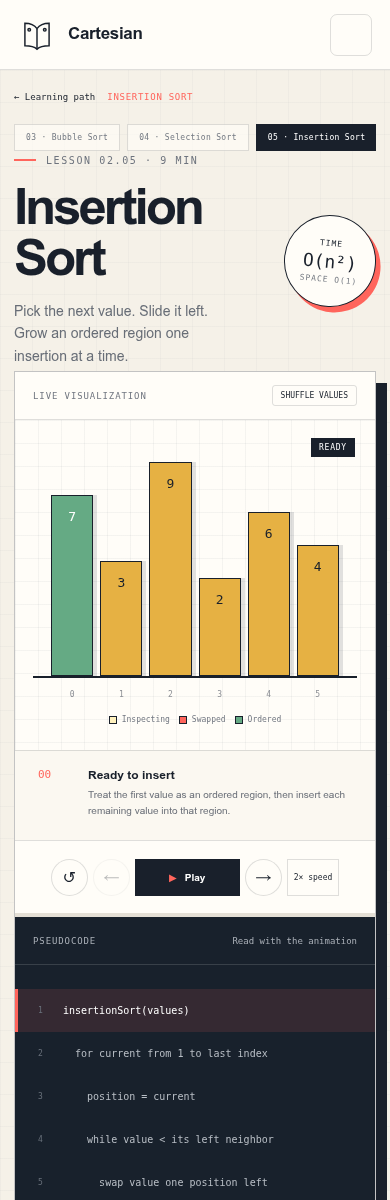
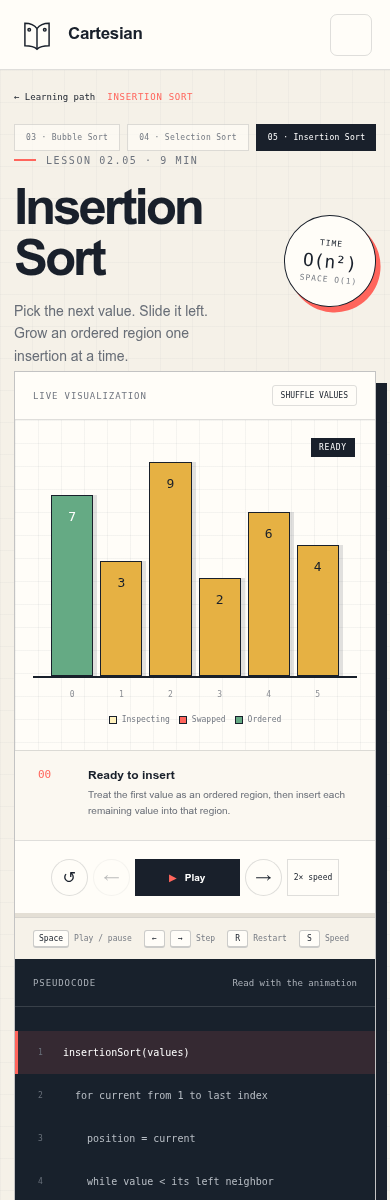
feat: add keyboard playback controls

Changed region(s): [[0.0308, 0.74, 0.9846, 0.9558], [0.3385, 0.9558, 0.3692, 0.9867]]

diff --git a/src/features/sorting/SortLesson.tsx b/src/features/sorting/SortLesson.tsx
@@ -1,4 +1,5 @@
 import { useEffect, useMemo, useState } from 'react'
+import { getPlaybackCommand } from './playbackShortcuts'
 import type { SortStep } from './sortStep'
 
 const SPEEDS = [1200, 750, 380]
@@ -75,6 +76,48 @@ export function SortLesson({ definition, lessons, onBack, onOpenLesson }: SortLe
     setValues(randomValues(definition.initialValues.length))
   }
 
+  useEffect(() => {
+    const onKeyDown = (event: KeyboardEvent) => {
+      const target = event.target
+      const hasInteractiveFocus = target instanceof Element
+        && target.closest('button, a, input, textarea, select, [contenteditable="true"]') !== null
+      if (hasInteractiveFocus) return
+
+      const command = getPlaybackCommand(event)
+      if (!command) return
+      event.preventDefault()
+
+      switch (command) {
+        case 'toggle-playback':
+          if (isComplete) {
+            setPlaying(false)
+            setStepIndex(0)
+          } else {
+            setPlaying((current) => !current)
+          }
+          break
+        case 'previous-step':
+          setPlaying(false)
+          setStepIndex((current) => Math.max(0, current - 1))
+          break
+        case 'next-step':
+          setPlaying(false)
+          setStepIndex((current) => Math.min(steps.length - 1, current + 1))
+          break
+        case 'restart':
+          setPlaying(false)
+          setStepIndex(0)
+          break
+        case 'change-speed':
+          setSpeedIndex((current) => (current + 1) % SPEEDS.length)
+          break
+      }
+    }
+
+    window.addEventListener('keydown', onKeyDown)
+    return () => window.removeEventListener('keydown', onKeyDown)
+  }, [isComplete, steps.length])
+
   return (
     <main className="lesson-page">
       <div className="lesson-crumbs">
@@ -150,6 +193,12 @@ export function SortLesson({ definition, lessons, onBack, onOpenLesson }: SortLe
             <button className="speed-button" type="button" onClick={() => setSpeedIndex((current) => (current + 1) % SPEEDS.length)}>{speedIndex + 1}× speed</button>
           </div>
           <div className="timeline" aria-label={`Step ${stepIndex + 1} of ${steps.length}`}><span style={{ width: `${(stepIndex / (steps.length - 1)) * 100}%` }} /></div>
+          <div className="shortcut-strip" aria-label="Keyboard shortcuts">
+            <span><kbd>Space</kbd> Play / pause</span>
+            <span><kbd>←</kbd><kbd>→</kbd> Step</span>
+            <span><kbd>R</kbd> Restart</span>
+            <span><kbd>S</kbd> Speed</span>
+          </div>
         </div>
 
         <aside className="code-panel">

diff --git a/src/features/sorting/playbackShortcuts.ts b/src/features/sorting/playbackShortcuts.ts
@@ -1,0 +1,33 @@
+export type PlaybackCommand =
+  | 'toggle-playback'
+  | 'previous-step'
+  | 'next-step'
+  | 'restart'
+  | 'change-speed'
+
+type KeyboardInput = {
+  key: string
+  altKey?: boolean
+  ctrlKey?: boolean
+  metaKey?: boolean
+}
+
+export function getPlaybackCommand(input: KeyboardInput): PlaybackCommand | null {
+  if (input.altKey || input.ctrlKey || input.metaKey) return null
+
+  switch (input.key.toLowerCase()) {
+    case ' ':
+    case 'spacebar':
+      return 'toggle-playback'
+    case 'arrowleft':
+      return 'previous-step'
+    case 'arrowright':
+      return 'next-step'
+    case 'r':
+      return 'restart'
+    case 's':
+      return 'change-speed'
+    default:
+      return null
+  }
+}

diff --git a/src/features/sorting/playbackShortcuts.test.ts b/src/features/sorting/playbackShortcuts.test.ts
@@ -1,0 +1,28 @@
+import { describe, expect, it } from 'vitest'
+import { getPlaybackCommand } from './playbackShortcuts'
+
+describe('getPlaybackCommand', () => {
+  it.each([
+    [' ', 'toggle-playback'],
+    ['Spacebar', 'toggle-playback'],
+    ['ArrowLeft', 'previous-step'],
+    ['ArrowRight', 'next-step'],
+    ['r', 'restart'],
+    ['R', 'restart'],
+    ['s', 'change-speed'],
+    ['S', 'change-speed'],
+  ] as const)('maps %s to %s', (key, command) => {
+    expect(getPlaybackCommand({ key })).toBe(command)
+  })
+
+  it('ignores unrelated keys', () => {
+    expect(getPlaybackCommand({ key: 'Enter' })).toBeNull()
+    expect(getPlaybackCommand({ key: 'm' })).toBeNull()
+  })
+
+  it('does not override browser or operating-system shortcuts', () => {
+    expect(getPlaybackCommand({ key: 'r', ctrlKey: true })).toBeNull()
+    expect(getPlaybackCommand({ key: 's', metaKey: true })).toBeNull()
+    expect(getPlaybackCommand({ key: 'ArrowLeft', altKey: true })).toBeNull()
+  })
+})

diff --git a/src/App.css b/src/App.css
@@ -146,6 +146,9 @@ footer > span { text-align: right; color: #9da4ae; font: 9px var(--mono); text-t
 .speed-button { padding: 0 11px; font: 8px var(--mono); }
 .timeline { height: 4px; background: #e4dfd5; }
 .timeline span { display: block; height: 100%; background: var(--coral); transition: width 250ms ease; }
+.shortcut-strip { min-height: 42px; padding: 8px 18px; display: flex; align-items: center; justify-content: center; gap: 18px; border-top: 1px solid var(--line); background: #f6f2e9; color: #777c84; font: 8px var(--mono); }
+.shortcut-strip span { display: inline-flex; align-items: center; gap: 5px; white-space: nowrap; }
+.shortcut-strip kbd { min-width: 21px; padding: 3px 5px; border: 1px solid rgba(25,32,43,.22); border-bottom-width: 2px; border-radius: 3px; background: var(--paper); color: var(--ink); font: 8px var(--mono); text-align: center; }
 
 .code-panel { min-width: 0; background: #18212c; color: white; }
 .code-panel .panel-label { color: #a9afb7; border-color: rgba(255,255,255,.14); }
@@ -216,6 +219,7 @@ footer > span { text-align: right; color: #9da4ae; font: 9px var(--mono); text-t
   .visual-legend { gap: 9px; }
   .player-controls { gap: 5px; }
   .speed-button { padding: 0 6px; }
+  .shortcut-strip { justify-content: flex-start; gap: 12px; overflow-x: auto; }
   .lesson-concept { grid-template-columns: 1fr; gap: 25px; padding: 50px 28px; }
   .lesson-concept > p { grid-column: auto; }
   .concept-number { font-size: 38px; }

diff --git a/README.md b/README.md
@@ -25,6 +25,7 @@ The goal is not to make algorithms merely look animated. The goal is to make the
 - Keyboard-accessible navigation drawer (`M` to toggle, `Escape` to close)
 - Interactive Bubble Sort, Selection Sort, and Insertion Sort lessons
 - Play, pause, replay, previous-step, and next-step controls
+- Keyboard playback controls with visible shortcut guidance
 - Three playback speeds
 - Random input generation
 - Synchronized pseudocode highlighting
@@ -125,6 +126,18 @@ http://localhost:5173/#insertion-sort
 | `npm run build` | Type-check and create a production build |
 | `npm run preview` | Preview the production build locally |
 
+## Lesson keyboard controls
+
+| Key | Action |
+| --- | --- |
+| `Space` | Play or pause; replay from the start after completion |
+| `←` | Pause and move to the previous event |
+| `→` | Pause and move to the next event |
+| `R` | Restart the current timeline |
+| `S` | Cycle through playback speeds |
+
+Global lesson shortcuts are disabled while a button, link, input, or editable element has focus. Browser and operating-system combinations such as `Ctrl+R`, `Cmd+S`, and `Alt+←` are not intercepted.
+
 ## Project structure
 
 ```text
@@ -145,6 +158,8 @@ cartesian-interactive-algorithms/
 │   │       ├── bubbleSort.test.ts
 │   │       ├── insertionSort.ts
 │   │       ├── insertionSort.test.ts
+│   │       ├── playbackShortcuts.ts
+│   │       ├── playbackShortcuts.test.ts
 │   │       ├── selectionSort.ts
 │   │       └── selectionSort.test.ts
 │   ├── App.tsx                 # Handbook shell and screen navigation
@@ -167,8 +182,9 @@ The current tests target the pure event generator because it carries the correct
 - Empty and singleton inputs
 - Adjacent-only swap events
 - Complete sorted-index metadata
+- Keyboard-command mapping and modified-shortcut protection
 
-The second lesson justified extracting a shared sorting player. Component interaction tests are now the next useful layer for protecting playback, navigation, and keyboard behavior.
+The second lesson justified extracting a shared sorting player. Component interaction tests are now the next useful layer for protecting timer behavior and verifying the browser-level keyboard listener around real focused elements.
 
 ## Roadmap
 
@@ -188,7 +204,7 @@ The second lesson justified extracting a shared sorting player. Component intera
 
 - [ ] Prediction checkpoints
 - [ ] Lesson completion and local progress persistence
-- [ ] Accessible keyboard playback controls
+- [x] Accessible keyboard playback controls
 - [ ] Lesson catalogue and routing
 - [ ] User-provided visualization inputs
 

diff --git a/docs/ARCHITECTURE.md b/docs/ARCHITECTURE.md
@@ -120,7 +120,7 @@ The visualization does not own a separate copy of algorithm state. It derives ev
 Unit tests currently cover the event generator because it contains correctness-sensitive transformations. The next useful test layers are:
 
 1. Shared player interaction tests for button and timer behavior.
-2. Keyboard navigation and accessible-state tests.
+2. Browser-level focus and accessible-state tests.
 3. One end-to-end lesson flow after routing and progress persistence exist.
 
 Snapshot-testing the entire page is deliberately avoided. Large markup snapshots are noisy and do not prove that algorithm states are correct.
@@ -132,12 +132,14 @@ Current foundations:
 - Semantic buttons for every interactive control
 - Descriptive labels for icon-only buttons
 - Live narration region for step changes
+- Keyboard playback bindings for play/pause, stepping, restart, and speed
+- Protection for native browser shortcuts and focused interactive elements
+- Visible shortcut reference in every sorting lesson
 - Reduced-motion media query
 - Responsive layouts that preserve content order
 
 Known gaps:
 
-- Playback needs full keyboard bindings.
 - Bar-state changes need richer screen-reader descriptions.
 - Focus should move predictably when navigating between lessons.
 - Color states should gain shape or label redundancy in the visualization itself.